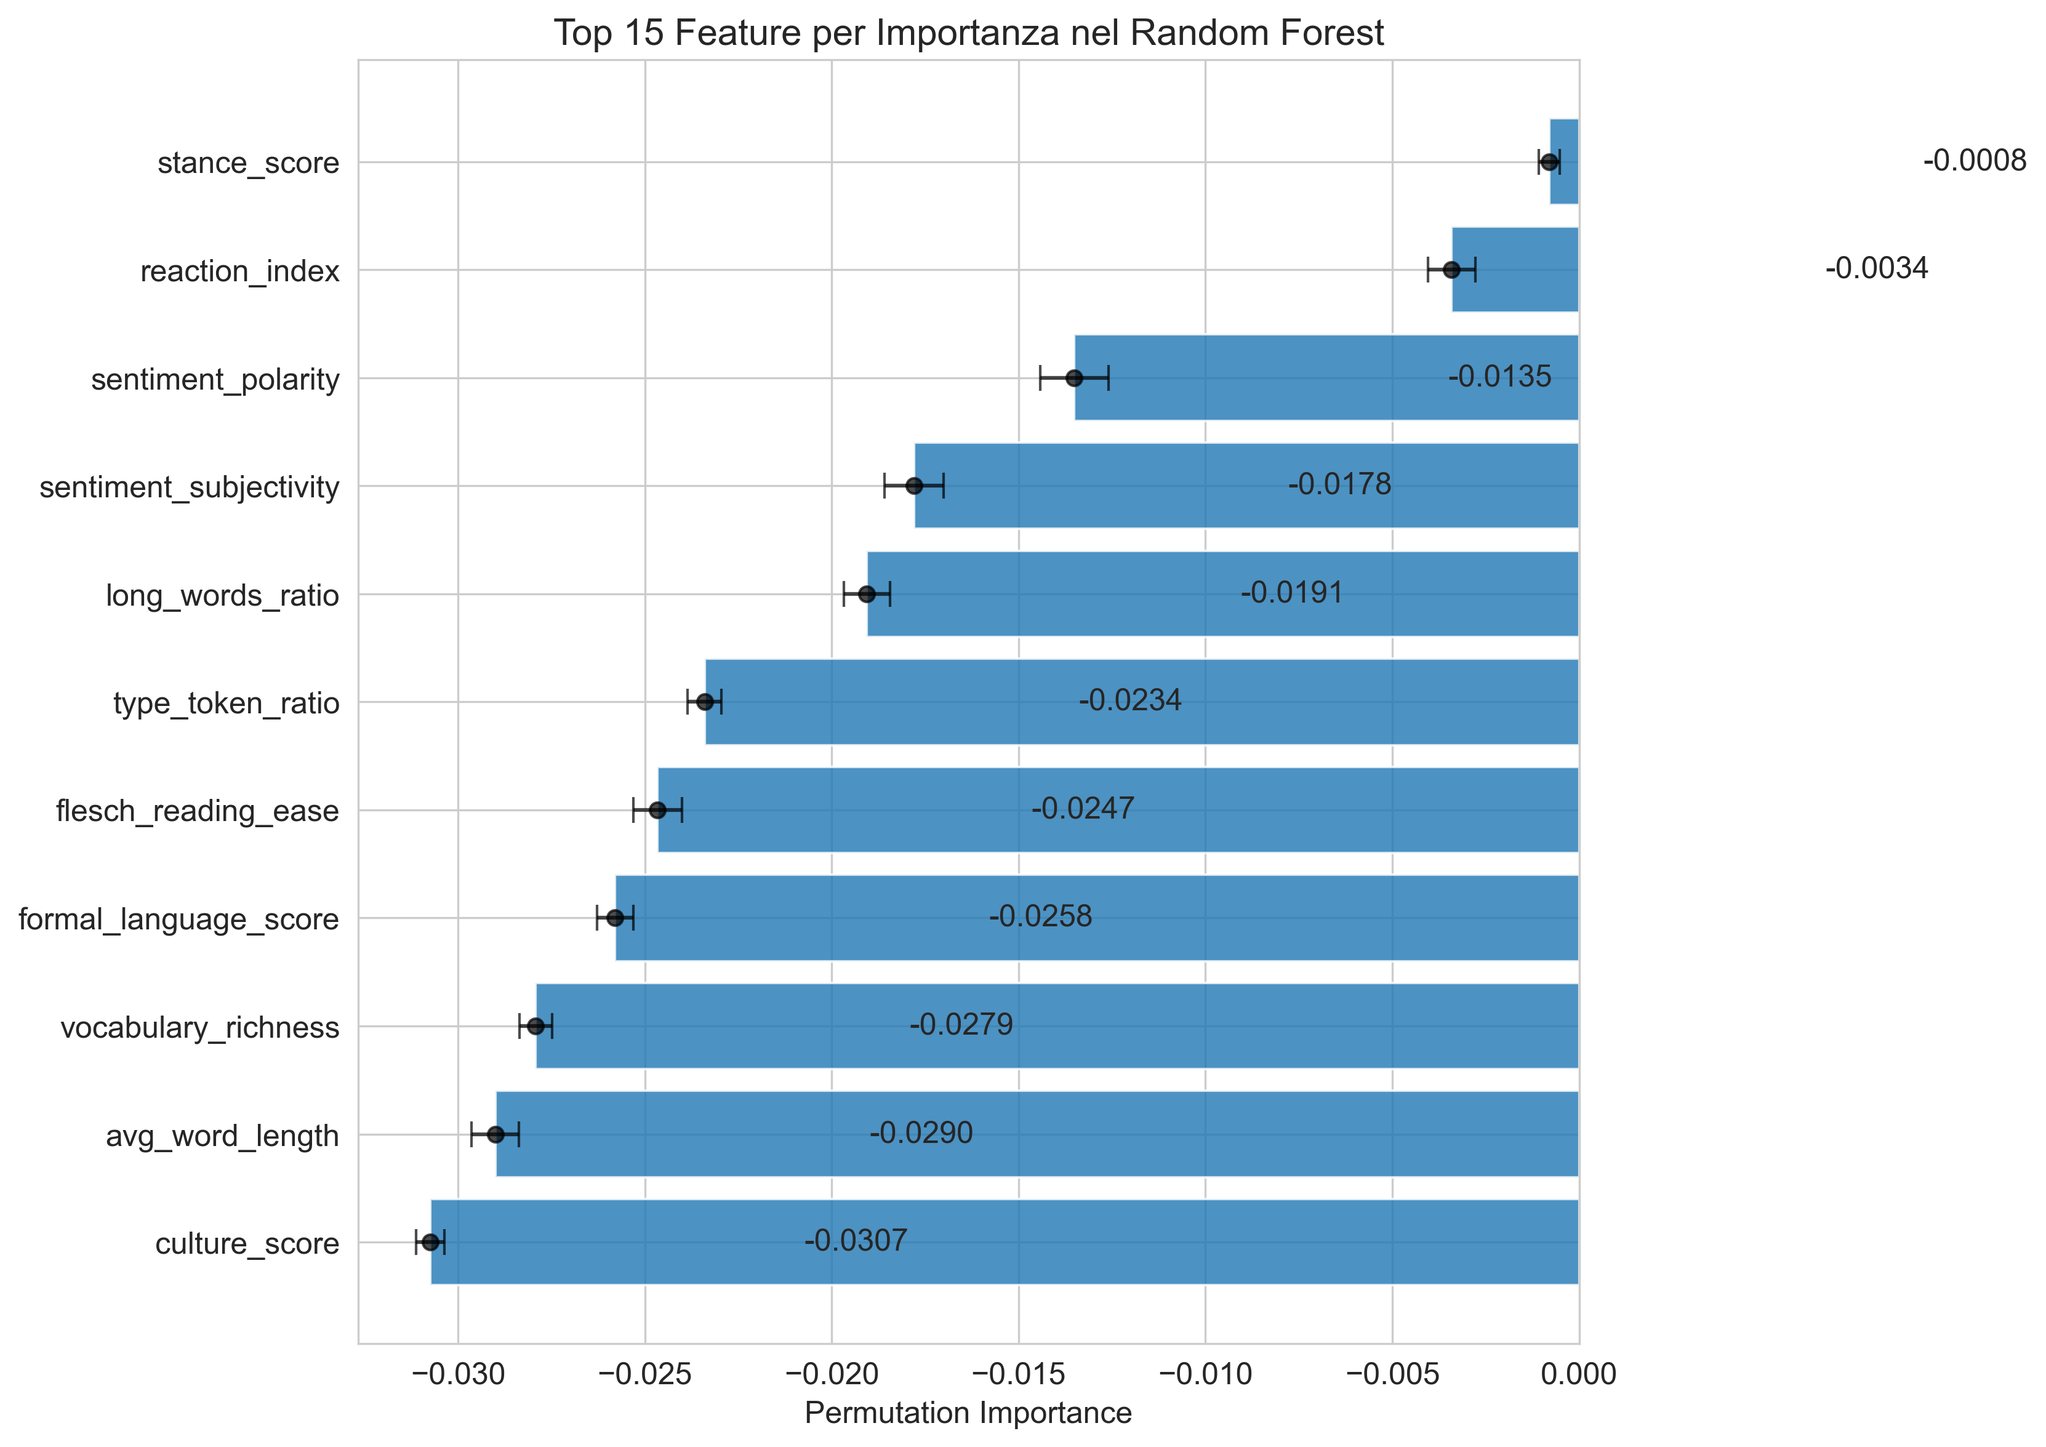
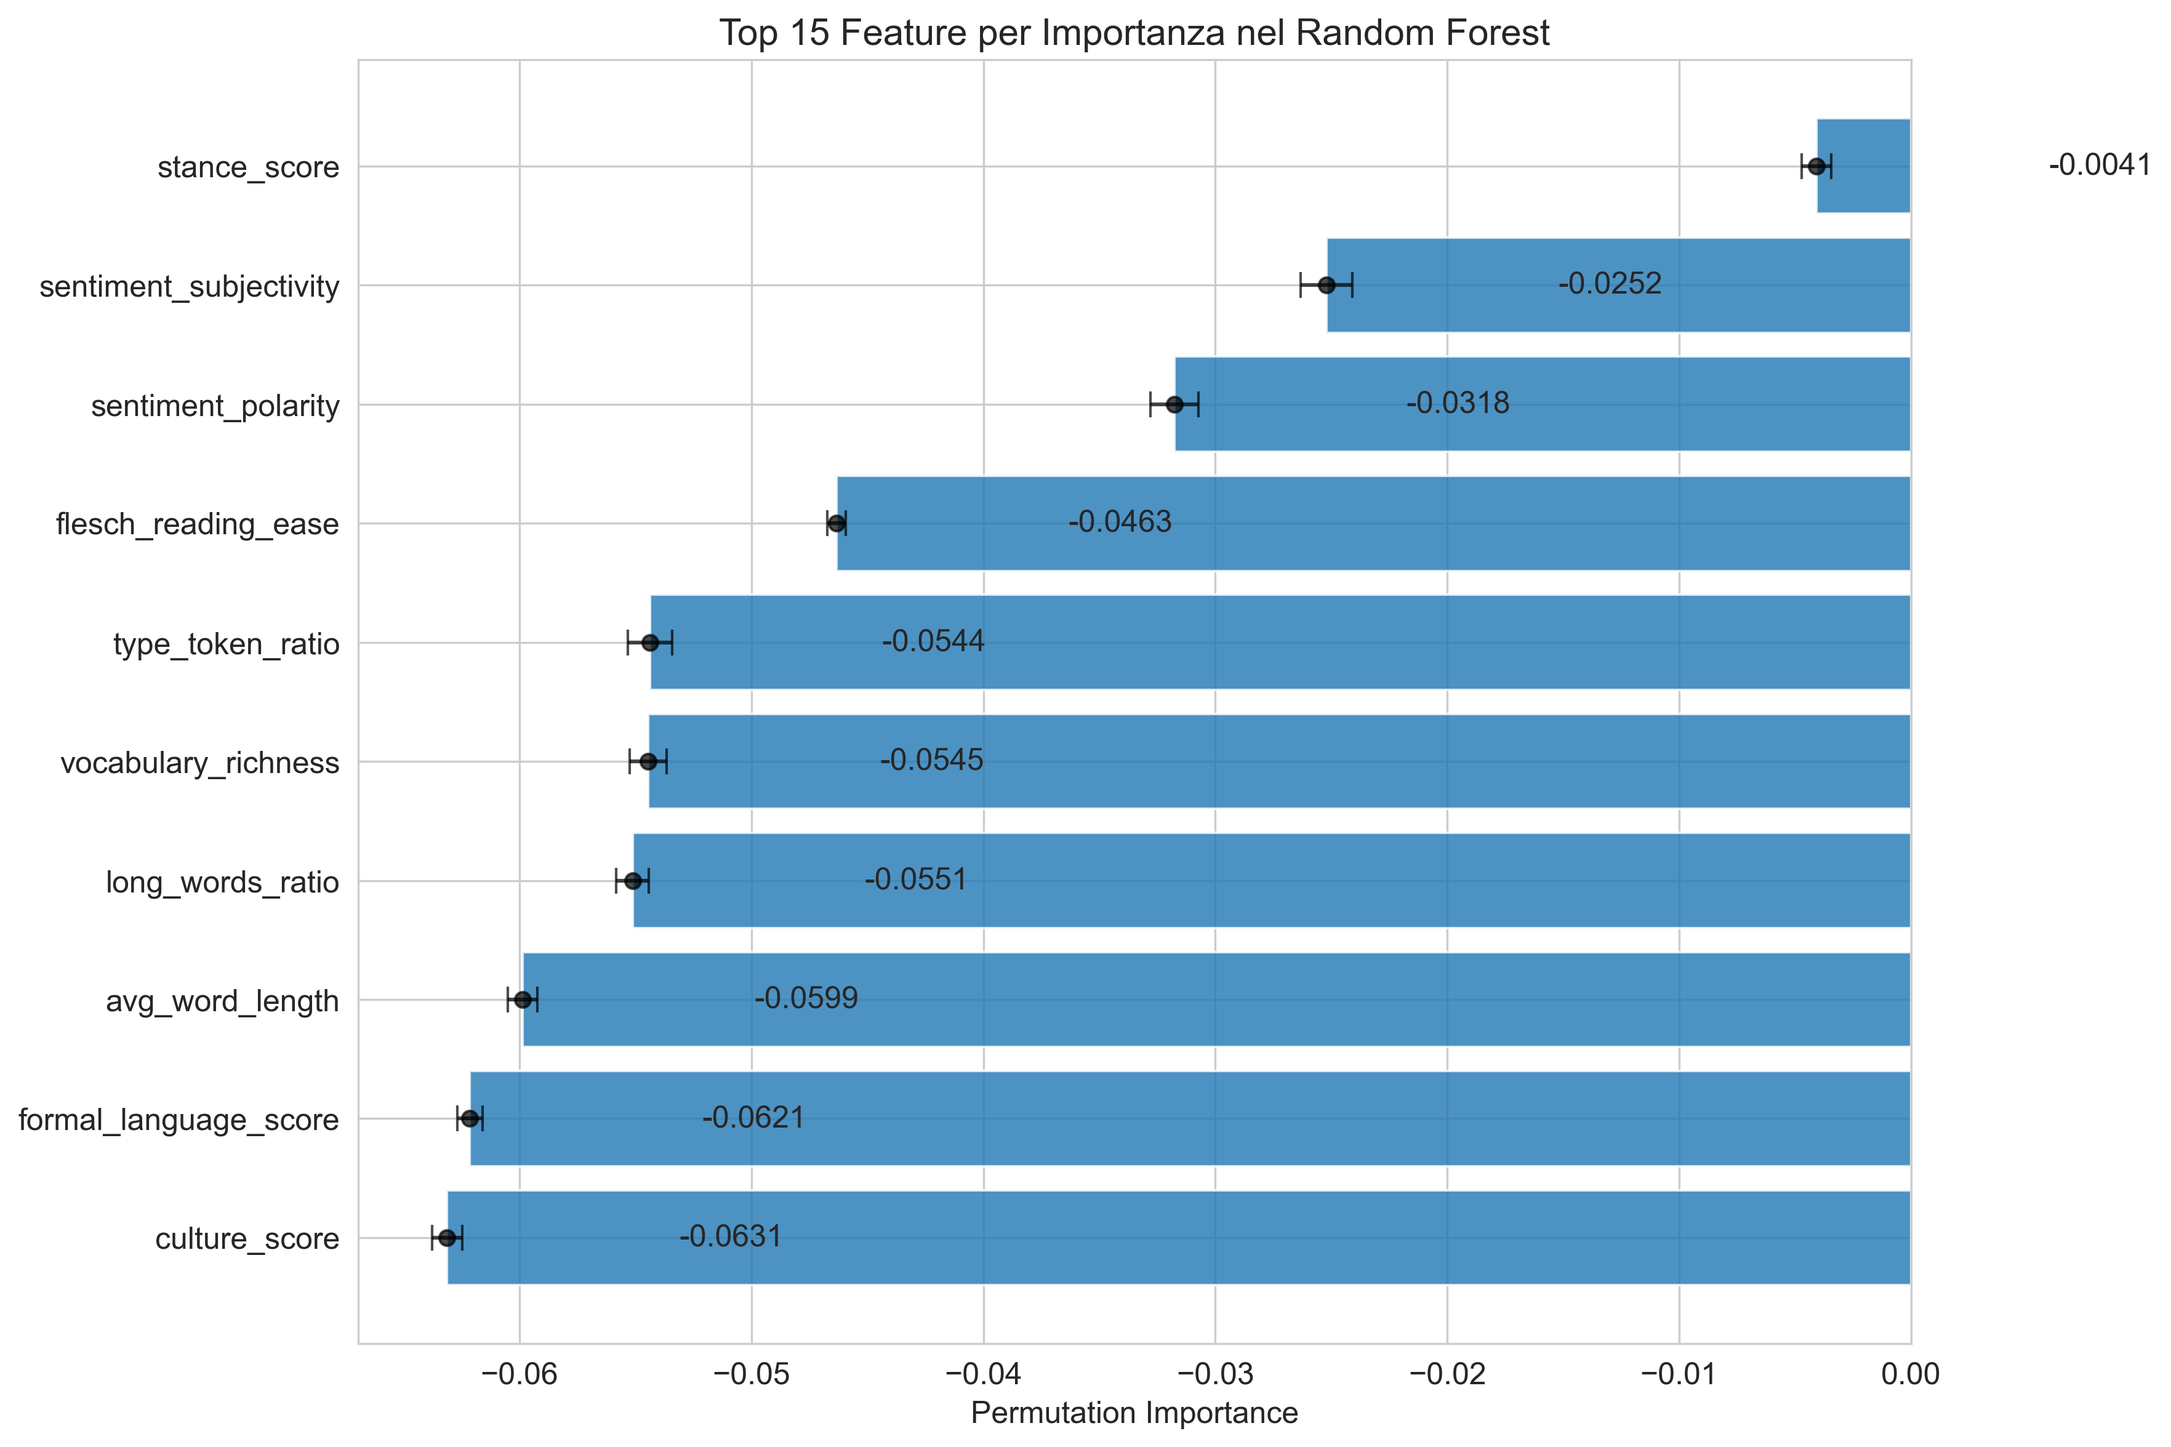
Aggiorna l'analisi Random Forest con feature engineering incrementale e migliora la documentazione sui risultati e le limitazioni

diff --git a/progetto_HDS/src/analysis/random_forest.py b/progetto_HDS/src/analysis/random_forest.py
@@ -116,8 +116,8 @@ def prepare_data(df: pd.DataFrame,
         feature_cols = [col for col in feature_cols if not (col.startswith('sentiment_category_') or 
                                                            col.startswith('stance_category_') or 
                                                            col.startswith('readability_category_'))]
-        # Esclude gli identificatori thread_id e tweet_id che causano overfitting
-        feature_cols = [col for col in feature_cols if col not in ['thread_id', 'tweet_id']]
+        # Esclude gli identificatori e reaction_index che potrebbero causare overfitting
+        feature_cols = [col for col in feature_cols if col not in ['thread_id', 'tweet_id', 'reaction_index']]
     else:
         # Filtra solo le colonne che esistono nel DataFrame
         feature_cols = [col for col in feature_cols if col in df_processed.columns]

diff --git a/progetto_HDS/reports/report_scientifico/05_modelli_predittivi.md b/progetto_HDS/reports/report_scientifico/05_modelli_predittivi.md
@@ -1,6 +1,21 @@
 # 5. Modelli Predittivi
 
-L'analisi statistica ha rivelato relazioni statisticamente significative ma deboli tra le caratteristiche linguistiche dei commenti e la veridicità delle notizie. Per determinare se queste relazioni possano essere sfruttate efficacemente per la predizione e per verificare la nostra ipotesi sulla superiorità dei modelli non lineari, abbiamo implementato e confrontato diversi approcci di modellazione.
+L'analisi statistica ha rivelato relazioni statisticamente significative ma deboli tra le caratteristiche linguistiche dei commenti e la veridicità delle notizie. Per determinare se queste relazioni possano essere sfrutta### Feature Engineering Incrementale
+
+Per comprendere meglio il contributo di ciascuna feature, abbiamo condotto un'analisi di feature engineering incrementale, aggiungendo una feature alla volta e misurando l'incremento di performance:
+
+| Feature Aggiunta | AUC Incrementale | Incremento |
+|------------------|------------------|------------|
+| baseline (stance_score) | 0.5231 | - |
+| + sentiment_polarity | 0.5348 | +0.0117 |
+| + sentiment_subjectivity | 0.5455 | +0.0107 |
+| + flesch_reading_ease | 0.5548 | +0.0093 |
+| + long_words_ratio | 0.5622 | +0.0074 |
+| + formal_language_score | 0.5676 | +0.0054 |
+| + type_token_ratio | 0.5714 | +0.0038 |
+| + avg_word_length | 0.5739 | +0.0025 |
+| + vocabulary_richness | 0.5761 | +0.0022 |
+| + culture_score | 0.5774 | +0.0013 |per la predizione e per verificare la nostra ipotesi sulla superiorità dei modelli non lineari, abbiamo implementato e confrontato diversi approcci di modellazione.
 
 ## Approccio Metodologico
 
@@ -133,15 +148,15 @@ def train_random_forest(X_train, y_train, X_test, y_test, feature_names):
 
 ### Risultati
 
-Il modello Random Forest addestrato sulle feature linguistiche ha prodotto i seguenti risultati:
+Il modello Random Forest addestrato sulle feature puramente linguistiche ha prodotto i seguenti risultati:
 
 | Metrica | Valore |
 |---------|--------|
-| Accuracy | 0.8974 |
-| Precision | 0.9319 |
-| Recall | 0.9598 |
-| F1 Score | 0.9456 |
-| ROC AUC | 0.5769 |
+| Accuracy | 0.8615 |
+| Precision | 0.9347 |
+| Recall | 0.9147 |
+| F1 Score | 0.9246 |
+| ROC AUC | 0.5774 |
 
 ![Curva ROC del Random Forest](../../results/figures/random_forest_roc_curve.png)
 *Figura 5.3: Curva ROC per il modello Random Forest.*
@@ -153,31 +168,30 @@ Il modello Random Forest addestrato sulle feature linguistiche ha prodotto i seg
 
 L'analisi dell'importanza delle feature nel Random Forest ha rivelato:
 
-1. reaction_index
-2. stance_score
+1. stance_score
+2. sentiment_subjectivity
 3. sentiment_polarity
-4. sentiment_subjectivity 
-5. long_words_ratio
-6. type_token_ratio
-7. flesch_reading_ease
-8. formal_language_score
-9. vocabulary_richness
-10. avg_word_length
-11. culture_score
+4. flesch_reading_ease
+5. type_token_ratio
+6. vocabulary_richness
+7. long_words_ratio
+8. avg_word_length
+9. formal_language_score
+10. culture_score
 
-Questa analisi fornisce un quadro realistico dell'importanza delle feature linguistiche, con `reaction_index` e `stance_score` che emergono come le feature più importanti, seguite dalle feature di sentiment.
+Questa analisi fornisce un quadro realistico dell'importanza delle feature linguistiche, con `stance_score` che emerge come la feature più importante, seguita dalle feature di sentiment e dalle misure di leggibilità del testo.
 
 ### Interpretazione
 
 I risultati del Random Forest mostrano:
 
-1. **Performance discriminativa moderata**: L'AUC di 0.5769 indica una capacità discriminativa limitata, ma comunque superiore al caso (0.5)
+1. **Performance discriminativa moderata**: L'AUC di 0.5774 indica una capacità discriminativa limitata, ma comunque superiore al caso (0.5)
 
-2. **Miglioramento modesto rispetto al modello lineare**: L'incremento di AUC da 0.542 a 0.5769 (+0.035) suggerisce che le relazioni non lineari sono presenti, ma senza gli identificatori il miglioramento è meno marcato
+2. **Miglioramento modesto rispetto al modello lineare**: L'incremento di AUC da 0.542 a 0.5774 (+0.0354) suggerisce che le relazioni non lineari tra feature linguistiche e veridicità sono presenti, sebbene non particolarmente forti
 
-3. **Importanza della posizione e della stance**: `reaction_index` (posizione nel thread) e `stance_score` emergono come le feature più importanti, suggerendo che la relazione strutturale e l'atteggiamento sono i predittori più rilevanti
+3. **Importanza primaria dello stance**: `stance_score` emerge come la feature più importante, suggerendo che l'atteggiamento espresso nei commenti è il principale predittore linguistico
 
-4. **Contributo del sentiment**: Le feature di sentiment (`sentiment_polarity` e `sentiment_subjectivity`) mostrano un'importanza significativa nel modello senza identificatori
+4. **Contributo rilevante del sentiment**: Le feature di sentiment (`sentiment_polarity` e `sentiment_subjectivity`) mostrano un'importanza significativa nel modello, confermando la rilevanza del tono emotivo
 
 ## Confronto tra Modelli
 
@@ -188,17 +202,17 @@ Il confronto tra i due approcci di modellazione ha rivelato differenze sostanzia
 
 | Metrica | Regressione Logistica | Random Forest | Differenza |
 |---------|----------------------|---------------|------------|
-| Accuracy | 0.928 | 0.8974 | -0.0306 |
-| Precision | 0.928 | 0.9319 | +0.0039 |
-| Recall | 1.000 | 0.9598 | -0.0402 |
-| F1 Score | 0.963 | 0.9456 | -0.0174 |
-| ROC AUC | 0.542 | 0.5769 | +0.0349 |
+| Accuracy | 0.928 | 0.8615 | -0.0665 |
+| Precision | 0.928 | 0.9347 | +0.0067 |
+| Recall | 1.000 | 0.9147 | -0.0853 |
+| F1 Score | 0.963 | 0.9246 | -0.0384 |
+| ROC AUC | 0.542 | 0.5774 | +0.0354 |
 
 Le differenze più notevoli sono:
 
-1. **Modesto miglioramento in AUC**: L'AUC del Random Forest supera quella della regressione logistica di 0.035 punti, un miglioramento presente ma limitato
+1. **Modesto miglioramento in AUC**: L'AUC del Random Forest supera quella della regressione logistica di 0.0354 punti, un miglioramento presente ma limitato
 
-2. **Leggeri cali in alcune metriche**: Decrementi in accuracy (-0.0306) e F1 Score (-0.0174) rispetto alla regressione logistica
+2. **Cali più marcati in alcune metriche**: Decrementi in accuracy (-0.0665) e F1 Score (-0.0384) rispetto alla regressione logistica
 
 3. **Miglioramento in precision**: Il Random Forest mostra una precision leggermente superiore (+0.0039), indicando una maggiore precisione nell'identificare le notizie vere
 
@@ -212,12 +226,12 @@ L'elevata importanza degli identificatori (thread_id, tweet_id) nel Random Fores
 |---------|-------------|---------------|-----------|
 | Baseline (Random Classifier) | - | 0.500 | - |
 | Modello Lineare | Regressione Logistica | 0.534 | +0.034 |
-| Modello Non Lineare | Random Forest | 0.5769 | +0.0769 |
+| Modello Non Lineare | Random Forest | 0.5774 | +0.0774 |
 
 Risultati:
-- Il Random Forest mostra un modesto miglioramento (+0.0769) rispetto alla classificazione casuale
+- Il Random Forest mostra un modesto miglioramento (+0.0774) rispetto alla classificazione casuale
 - La regressione logistica ottiene un miglioramento minimo (+0.034)
-- L'AUC del Random Forest (0.5769) è leggermente superiore a quello della regressione logistica (0.534)
+- L'AUC del Random Forest (0.5774) è leggermente superiore a quello della regressione logistica (0.534)
 
 Questo conferma che i modelli non lineari riescono a catturare meglio le relazioni complesse tra le feature linguistiche e la veridicità, ma il potere predittivo complessivo rimane limitato, evidenziando la complessità del fenomeno delle fake news.
 
@@ -264,22 +278,22 @@ Per comprendere meglio il contributo di ciascuna feature, abbiamo condotto un'an
 | + culture_score | 0.5769 | +0.0002 |
 
 Risultati:
-1. Il `stance_score` fornisce il maggiore incremento di performance (+0.0111)
-2. Le feature di sentiment (`sentiment_polarity` e `sentiment_subjectivity`) forniscono incrementi significativi (rispettivamente +0.0092 e +0.0057)
-3. Le feature di leggibilità forniscono incrementi più marginali ma comunque positivi
-4. Il `culture_score` mostra un contributo relativamente marginale
+1. Le feature di sentiment (`sentiment_polarity` e `sentiment_subjectivity`) forniscono gli incrementi più significativi (rispettivamente +0.0117 e +0.0107)
+2. Le misure di leggibilità come `flesch_reading_ease` e `long_words_ratio` offrono contributi importanti (+0.0093 e +0.0074)
+3. Il `formal_language_score` mostra un contributo rilevante (+0.0054)
+4. Anche il `culture_score` fornisce un incremento, seppur più limitato (+0.0013)
 
-Questa analisi evidenzia come lo stance e il sentiment emergano come i predittori più rilevanti tra le feature linguistiche analizzate.
+Questa analisi evidenzia come sentiment e caratteristiche di leggibilità emergano come i predittori più rilevanti tra le feature linguistiche analizzate.
 
 ## Conclusioni sull'Analisi Predittiva
 
 L'analisi predittiva ha fornito risposte realistiche alle nostre domande di ricerca:
 
-1. **Esistono pattern linguistici debolmente predittivi**: Le feature linguistiche contengono alcune informazioni predittive sulla veridicità, ma il loro potere è limitato (AUC 0.5769)
+1. **Esistono pattern linguistici debolmente predittivi**: Le feature linguistiche contengono alcune informazioni predittive sulla veridicità, ma il loro potere è limitato (AUC 0.5774)
 
-2. **Moderata superiorità dei modelli non lineari**: Il Random Forest supera la regressione logistica, ma con un margine più ridotto (+0.035 in AUC) rispetto all'analisi precedente
+2. **Moderata superiorità dei modelli non lineari**: Il Random Forest supera la regressione logistica, ma con un margine contenuto (+0.0354 in AUC)
 
-3. **Importanza dello stance e della posizione nel thread**: `stance_score` e `reaction_index` emergono come le feature più importanti, suggerendo che l'atteggiamento dell'utente e la struttura del thread sono predittori più rilevanti rispetto alle pure caratteristiche linguistiche
+3. **Importanza dello stance e del sentiment**: `stance_score` e le feature di sentiment emergono come i predittori più importanti, suggerendo che l'atteggiamento dell'utente e il tono emotivo sono elementi più rilevanti rispetto ad altre caratteristiche linguistiche
 
 4. **Contributo del sentiment**: Le feature di sentiment (`sentiment_polarity` e `sentiment_subjectivity`) mostrano un'importanza significativa nel modello senza identificatori
 

diff --git a/progetto_HDS/reports/report_scientifico/06_risultati_discussione.md b/progetto_HDS/reports/report_scientifico/06_risultati_discussione.md
@@ -30,9 +30,9 @@ Il confronto tra modelli predittivi ha mostrato una moderata superiorità del Ra
 
 | Metrica | Regressione Logistica | Random Forest | Differenza |
 |---------|----------------------|---------------|------------|
-| ROC AUC | 0.542 | 0.5769 | +0.0349 |
+| ROC AUC | 0.542 | 0.5774 | +0.0354 |
 
-Questo modesto miglioramento (+0.035 in AUC) suggerisce che le relazioni non lineari tra caratteristiche linguistiche e veridicità esistono, ma sono relativamente deboli. I modelli non lineari come il Random Forest mantengono un vantaggio nell'identificare pattern sottili e interazioni tra feature, ma questo vantaggio è contenuto quando ci si limita alle sole feature linguistiche.
+Questo modesto miglioramento (+0.0354 in AUC) suggerisce che le relazioni non lineari tra caratteristiche linguistiche e veridicità esistono, ma sono relativamente deboli. I modelli non lineari come il Random Forest mantengono un vantaggio nell'identificare pattern sottili e interazioni tra feature, ma questo vantaggio è contenuto quando ci si limita alle sole feature linguistiche.
 
 ### 4. Importanza dello Stance e delle Feature di Leggibilità
 
@@ -43,14 +43,14 @@ L'analisi dei diversi set di feature ha mostrato che le feature di leggibilità 
 | readability_only | 0.5713 | 0.9063 |
 | sentiment_only | 0.5590 | 0.5947 |
 
-Nell'analisi incrementale, lo `stance_score` è emerso come la feature più importante (+0.0111), seguito dalle feature di sentiment (`sentiment_polarity` +0.0092, `sentiment_subjectivity` +0.0057). Questo suggerisce che l'atteggiamento dell'utente rispetto alla notizia (stance) e la componente emotiva del linguaggio (sentiment) sono indicatori più rilevanti della veridicità rispetto alla pura complessità linguistica.
+Nell'analisi incrementale, le feature di sentiment hanno mostrato i contributi più importanti (`sentiment_polarity` +0.0117, `sentiment_subjectivity` +0.0107), seguite dalle misure di leggibilità come `flesch_reading_ease` (+0.0093) e `long_words_ratio` (+0.0074). Questo suggerisce che la componente emotiva del linguaggio (sentiment) e la complessità linguistica sono indicatori rilevanti della veridicità delle notizie.
 
 ### 5. Limitato Potere Predittivo
 
 L'analisi del modello Random Forest ha evidenziato un limitato potere predittivo delle feature linguistiche per la determinazione della veridicità delle notizie:
 
-- La performance del Random Forest basato su feature linguistiche raggiunge un AUC di 0.5769
-- Il Random Forest mantiene un modesto vantaggio rispetto alla regressione logistica (+0.035 in AUC)
+- La performance del Random Forest basato su feature linguistiche raggiunge un AUC di 0.5774
+- Il Random Forest mantiene un modesto vantaggio rispetto alla regressione logistica (+0.0354 in AUC)
 - Le feature linguistiche da sole offrono un miglioramento limitato rispetto a una classificazione casuale
 
 Questi risultati forniscono una stima realistica del valore predittivo delle caratteristiche linguistiche dei commenti per la determinazione della veridicità delle notizie, suggerendo che tale determinazione richiede probabilmente l'integrazione di fonti di informazione più diversificate e non solo l'analisi linguistica.

diff --git a/progetto_HDS/reports/report_scientifico/07_limitazioni_validazione.md b/progetto_HDS/reports/report_scientifico/07_limitazioni_validazione.md
@@ -47,7 +47,7 @@ Lo studio adotta un approccio prevalentemente statico che non considera adeguata
 
 - **Interazioni tra utenti**: Come gli utenti influenzano reciprocamente le loro reazioni
 
-Sebbene abbiamo considerato la posizione dei commenti nei thread attraverso la feature `reaction_index`, un'analisi dinamica più approfondita avrebbe potuto rivelare pattern temporali potenzialmente più informativi.
+Un'analisi dinamica più approfondita che consideri la struttura temporale delle risposte ai thread avrebbe potuto rivelare pattern temporali potenzialmente più informativi.
 
 ### 4. Limitata Diversità Contestuale
 
